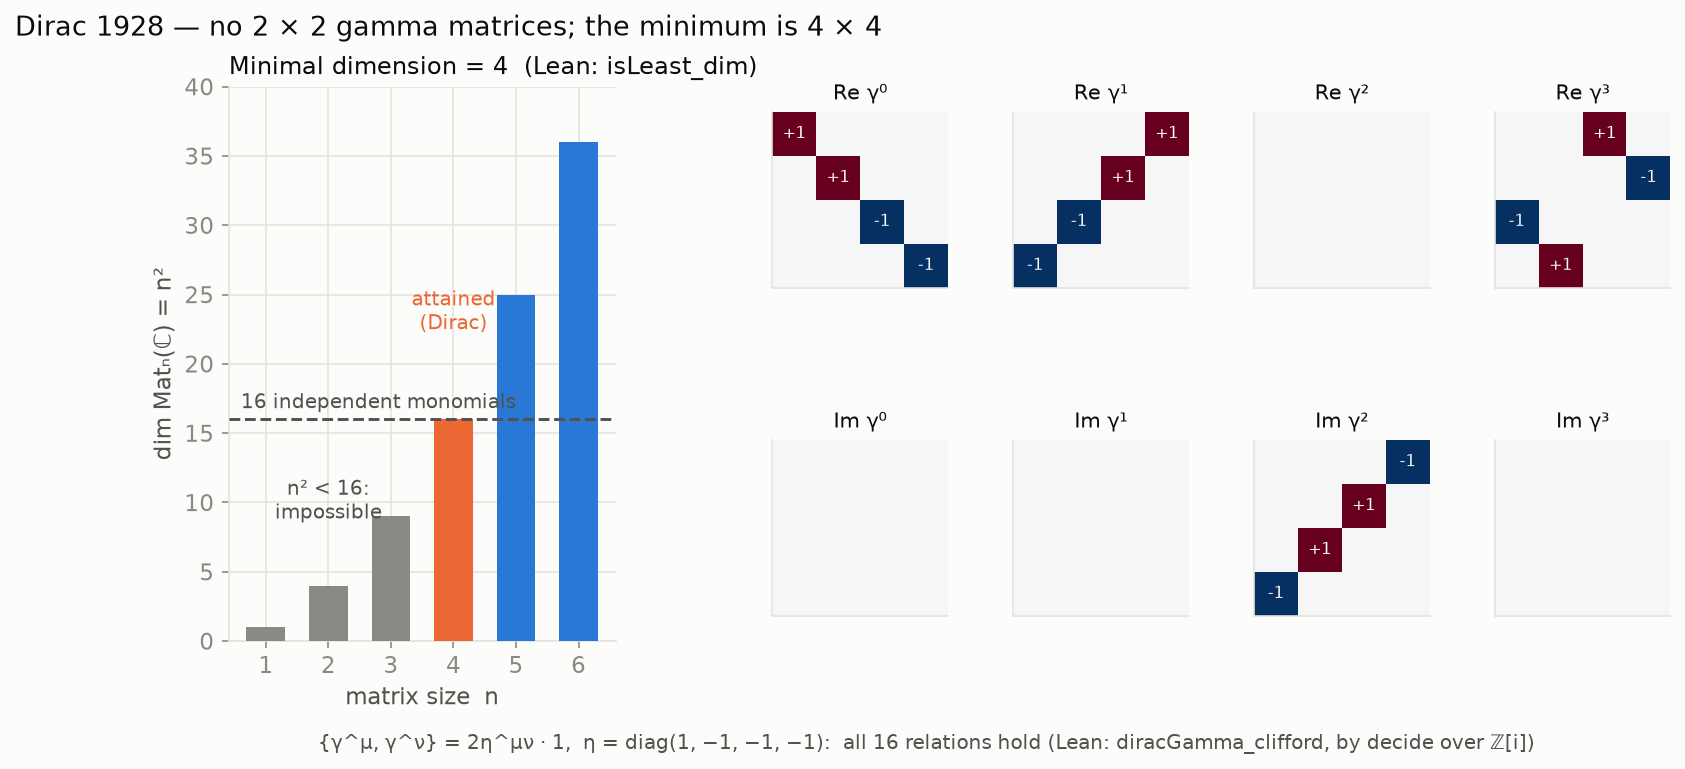
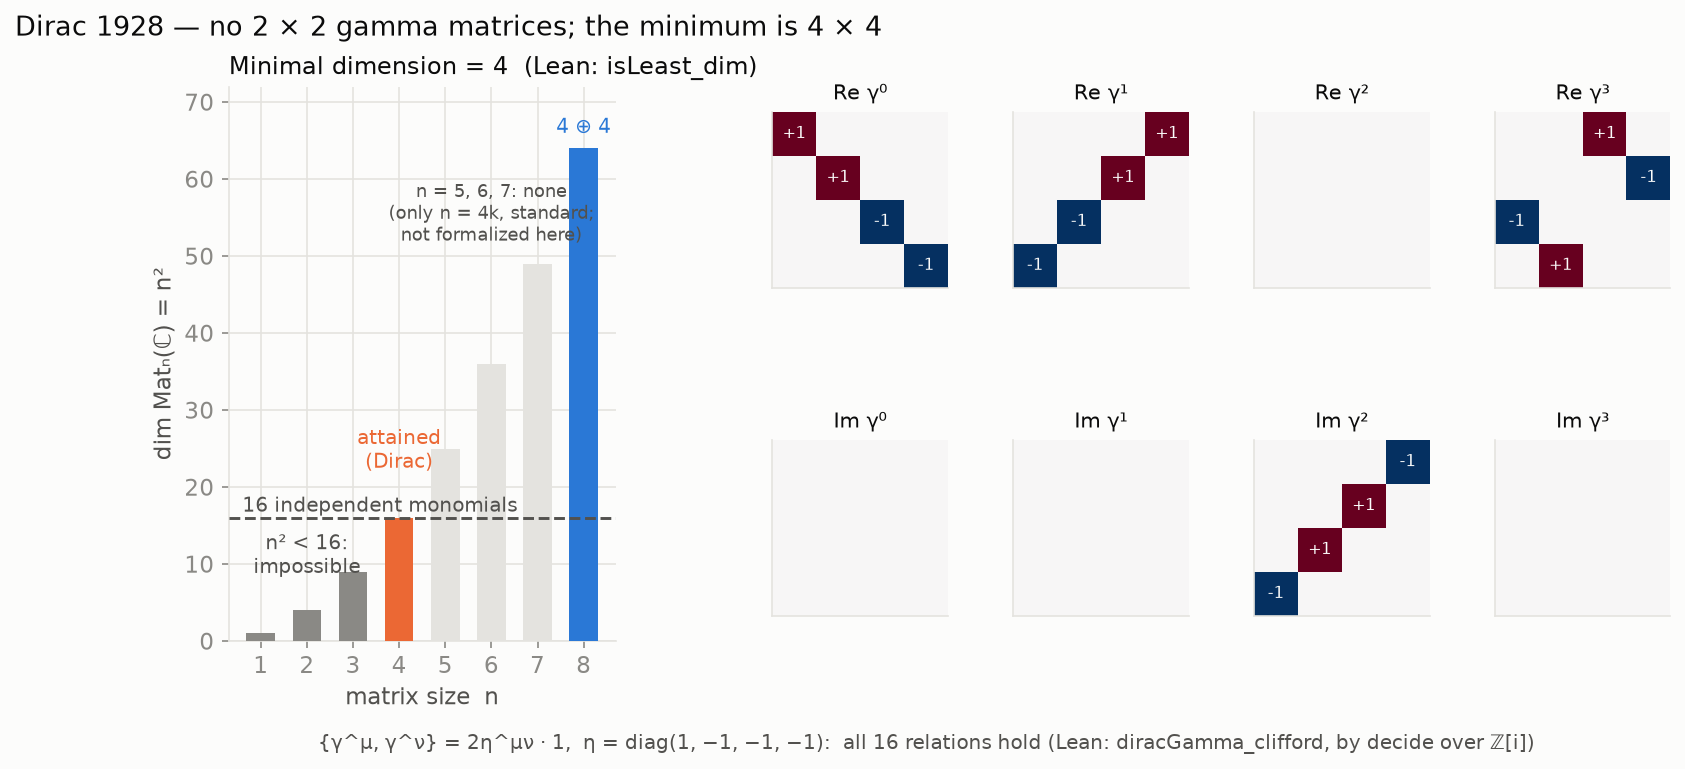
docs: Dirac figure, only n = 4k carry a representation

diff --git a/docs/simulation/figures_dirac.py b/docs/simulation/figures_dirac.py
@@ -27,17 +27,21 @@ def fig_dirac():
     gs = fig.add_gridspec(2, 6, width_ratios=[2.2, 0.15, 1, 1, 1, 1], hspace=0.45, wspace=0.35)
 
     ax = fig.add_subplot(gs[:, 0])
-    ns = np.arange(1, 7)
-    cols = [MUTED if n < 4 else (ORANGE if n == 4 else BLUE) for n in ns]
+    ns = np.arange(1, 9)
+    cols = [MUTED if n < 4 else (ORANGE if n == 4 else (BLUE if n % 4 == 0 else GRID))
+            for n in ns]
     ax.bar(ns, ns ** 2, color=cols, width=0.62, zorder=3)
     ax.axhline(16, color=INK2, lw=1.4, ls="--", zorder=4)
     ax.text(0.6, 16.8, "16 independent monomials", color=INK2, fontsize=9.5)
     ax.text(2, 2.8 ** 2 + 1, "n² < 16:\nimpossible", ha="center", color=INK2, fontsize=9.5)
     ax.text(4, 22.5, "attained\n(Dirac)", ha="center", color=ORANGE, fontsize=9.5)
+    ax.text(6, 52, "n = 5, 6, 7: none\n(only n = 4k, standard;\nnot formalized here)",
+            ha="center", color=INK2, fontsize=8.5)
+    ax.text(8, 66, "4 ⊕ 4", ha="center", color=BLUE, fontsize=9.5)
     ax.set_xticks(ns)
     ax.set_xlabel("matrix size  n")
     ax.set_ylabel("dim Matₙ(ℂ) = n²")
-    ax.set_ylim(0, 40)
+    ax.set_ylim(0, 72)
     ax.grid(axis="y", color=GRID, zorder=0)
     ax.set_title("Minimal dimension = 4  (Lean: isLeast_dim)", loc="left", fontsize=11.5)
 
